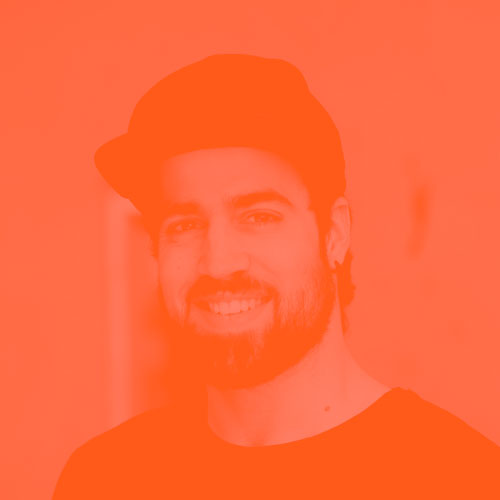
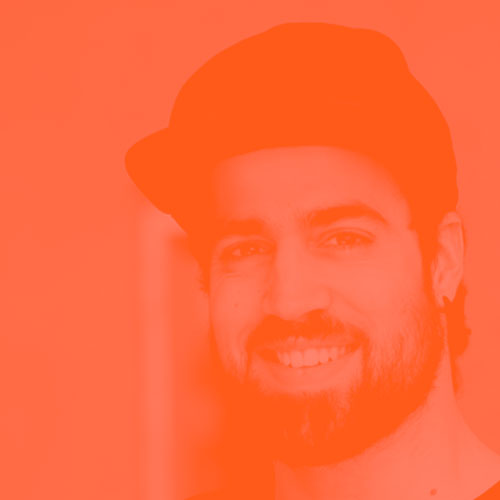
Update profile pic. ratio

diff --git a/styles/index.css b/styles/index.css
@@ -154,10 +154,6 @@ header.top {
   background: url("/images/profile-duotone.jpg") center no-repeat #F15A24;
   background-size: cover;
   color: #FFFFFF; }
-  @media all and (min-width: 650px) {
-    header.top {
-      background-position: left center;
-      background-size: 120%; } }
   @media all and (min-width: 840px) {
     header.top {
       background: #F15A24; } }

diff --git a/styles/source/front.scss b/styles/source/front.scss
@@ -6,8 +6,6 @@ header.top {
   color: $color-white;
 
   @media all and (min-width: 650px) {
-    background-position: left center;
-    background-size: 120%;
   }
 
   @media all and (min-width: 840px) {
